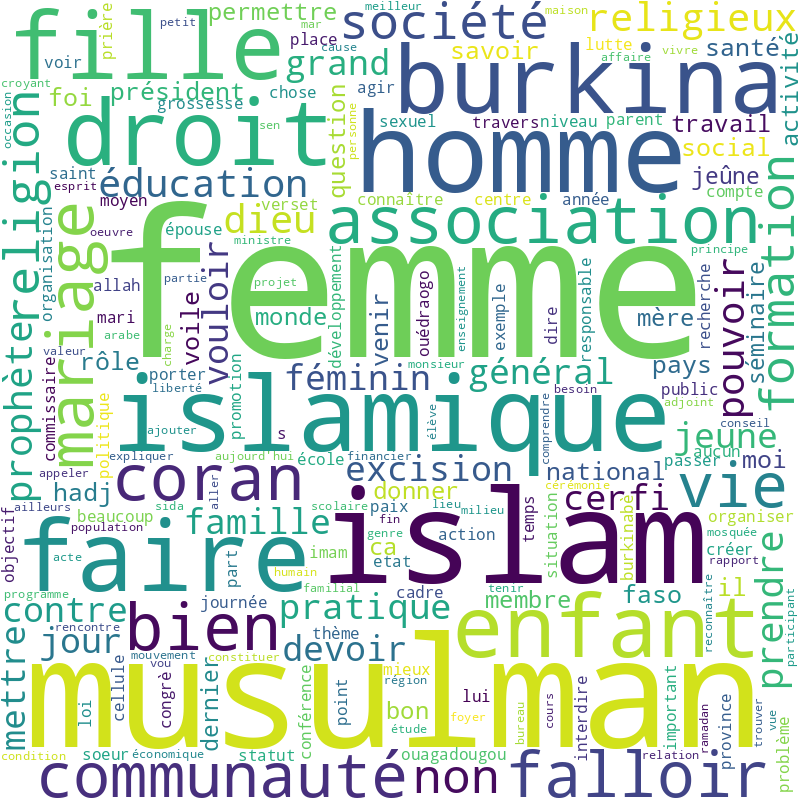
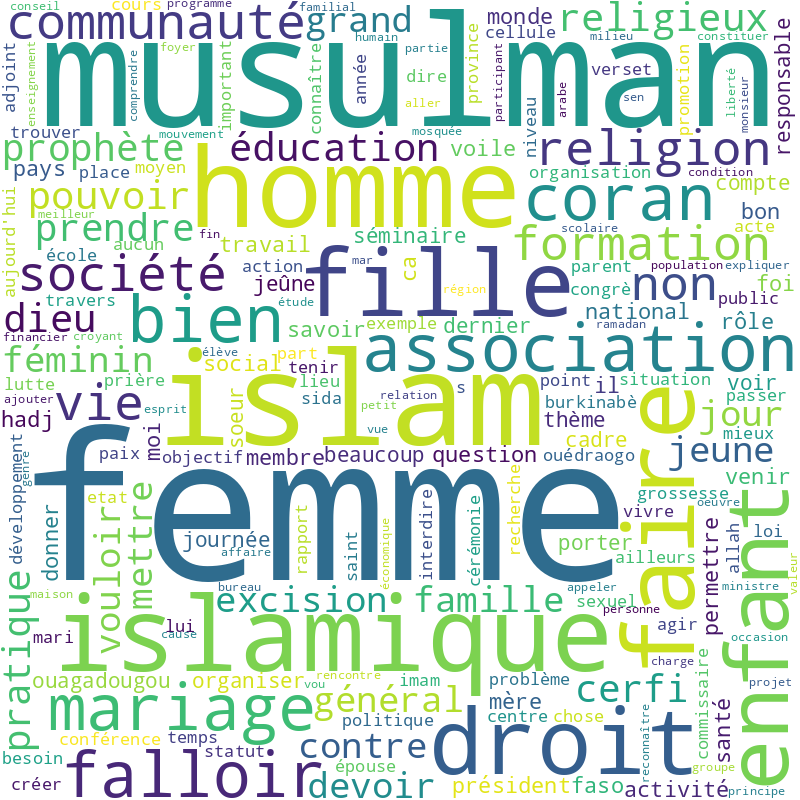
Wordcloud par pays

diff --git a/3. nuage_mots.py b/3. nuage_mots.py
@@ -10,7 +10,7 @@ df = pd.read_csv(url)
 df['Processed_Content'] = df['Processed_Content'].str.lower()
 
 # Définir une liste de mots à exclure (stopwords) en plus des stopwords par défaut
-additional_stopwords = {"el", "être", "t", "mme", "m"}  # Ajouter ici les mots à exclure
+additional_stopwords = {"el", "être", "t", "mme", "m", "bénin", "burkina"}  # Ajouter ici les mots à exclure
 stopwords = set(STOPWORDS).union(additional_stopwords)
 
 # Fonction pour générer un nuage de mots
